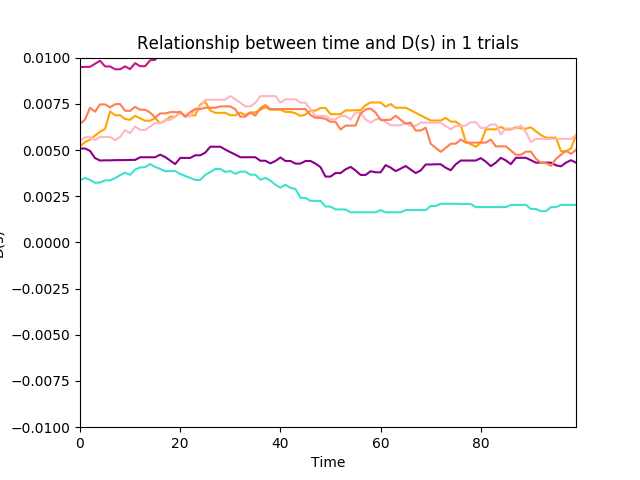
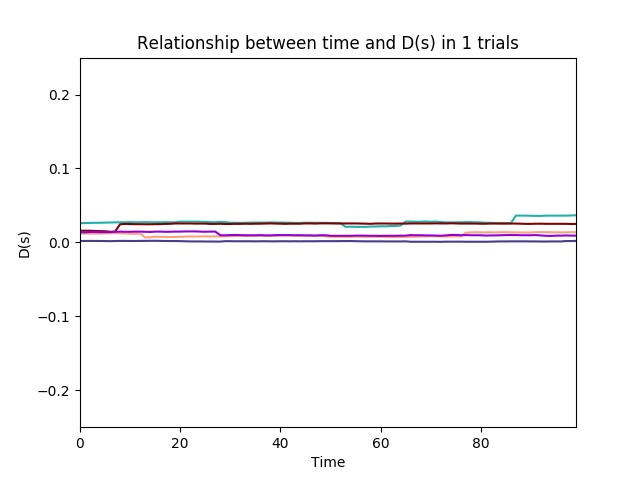
dumbell trials yey!

diff --git a/test_files/timestep-control-1.py b/test_files/timestep-control-1.py
@@ -752,7 +752,7 @@ def plot_multiple_dumbell_each_clique(parameters, graph_type, u, b, c, delta, no
         print('\n')
         print("Running trial ", each)
         #print("Evaluating trial ", each)
-        graph=init.generate_weighted(parameters, graph_type)
+        graph=init.generate_graph(parameters, graph_type)
 
         if rho != None:
             # Remove lattice nodes until only rho percent remain
@@ -774,6 +774,7 @@ def plot_multiple_dumbell_each_clique(parameters, graph_type, u, b, c, delta, no
             cliques_to_proportions = parameters[3]
         except:
             cliques_to_proportions = parameters[2]
+
         init.label_dumbell_multiple_cliques_allen(graph, b, c, strat_list, cliques_to_proportions)       
 
 
@@ -833,10 +834,15 @@ def plot_multiple_dumbell_each_clique(parameters, graph_type, u, b, c, delta, no
 
     if plotting:
         #plot the 3 lines
+        linestyles = [':', '-.', '--', '-']
         for clique in Y_data:
+            ###### WARNING THIS ONLY WORKS FOR \leq 4 MULTIPLE DUMBELLS ######
+            line_type = linestyles[clique]
+            ##################################################################
+
             #this_color=remaining_colors.pop()
             plt.figure(1)
-            plt.plot(X, Y_data[clique], color=this_color, marker='', linestyle = '-', label='clique '+str(clique))
+            plt.plot(X, Y_data[clique], color=this_color, marker='', linestyle = line_type, label='clique '+str(clique))
             #plt.plot(X, Yplus_data[clique], color=this_color, marker='', linestyle = ':', label='clique '+str(clique))
             #plt.plot(X, Yminus_data[clique], color=this_color, marker='', linestyle = ':', label='clique '+str(clique))
 
@@ -854,7 +860,7 @@ def plot_multiple_dumbell_each_clique(parameters, graph_type, u, b, c, delta, no
 
         #show plot
         plt.show() 
-        pause(3)  
+        #pause(3)  
 
     if saving:
         file_id = randint(10**5, 10**6 - 1)
@@ -893,7 +899,7 @@ def plot_multiple_dumbell_each_clique(parameters, graph_type, u, b, c, delta, no
 
         #change axes ranges
         plt.xlim(0,t-1)
-        plt.ylim(-.01,.01)
+        plt.ylim(-.25,.25)
         #add title
         plt.title('Relationship between time and D(s) in '+str(number_trials)+ ' trials')
         #add x and y labels
@@ -910,7 +916,7 @@ def plot_multiple_dumbell_each_clique(parameters, graph_type, u, b, c, delta, no
     if saving:
         file_id = 0
         #randint(10**5, 10**6 - 1)
-    #   print("Attempting to save plot ", data_iteration)+1
+        #print("Attempting to save plot ", data_iteration)+1
         if graph_type=='dumbell_multiple':
             plt.savefig(graph_type + '_' + \
                 update_name + '_' + \
@@ -1791,7 +1797,7 @@ noise   = 0
 b       = 2
 max_b   = 2
 c       = 1
-t       = 100
+t       = 300
 
 start_prop_cooperators  = 0.7
 number_trials           = 1
@@ -1990,9 +1996,6 @@ remaining_colors = list(mcolors.CSS4_COLORS.keys())
 for color in light_colors:
     remaining_colors.remove(color) 
 
- 
-
-#plt.gcf().clear()
 '''
 for i in range(10):
     this_color = color_list.pop()
@@ -2005,9 +2008,57 @@ for i in range(10):
 
 #plt.gcf().clear()
 '''
-for i in range(10):
+
+######## T E S T - I S L A N D - M O D E L #########
+graph_type='with_indicator'
+
+'''------------
+    TEST 1
+-------------'''
+#MAKING OF INDICATOR GRAPH
+indicator=nx.Graph()
+sizes={0:40,
+        1:40,
+        2:40,
+        3:40}
+
+strengths={(0,1):0.2,
+        (0,3):0.01,
+        (1,2):0.01,
+        (2,3):0.01}
+#ADD EDGES
+indicator.add_edges_from(strengths.keys())
+#SET ATTRIBUTES
+nx.set_node_attributes(indicator, name='size', values=sizes)
+nx.set_edge_attributes(indicator, name='strength', values=strengths)
+#PARAMETERS
+cliques_to_proportions = {0 : 0.9, 1 : 0.1, 2:0.8, 3:0.8}
+parameters=[indicator, None, cliques_to_proportions]
+
+'''------------
+    TEST 1
+-------------'''
+#MAKING OF INDICATOR GRAPH
+indicator=nx.Graph()
+sizes={0:40,
+        1:40}
+
+strengths={(0,1):0.0002}
+#ADD EDGES
+indicator.add_edges_from(strengths.keys())
+#SET ATTRIBUTES
+nx.set_node_attributes(indicator, name='size', values=sizes)
+nx.set_edge_attributes(indicator, name='strength', values=strengths)
+#PARAMETERS
+cliques_to_proportions = {0 : 0.9, 1 : 0.1}
+parameters=[indicator, None, cliques_to_proportions]
+
+
+
+iterations=3
+for i in range(iterations):
     this_color = remaining_colors.pop()
-    if i == 10:
+    if i == iterations-1:
         save_boolean = True
     else:
         save_boolean = False
@@ -2019,10 +2070,6 @@ for i in range(10):
 
 #graph = plot_many_trials_utkovski(parameters, graph_type, strat_list, start_prop_cooperators, u, this_lambda, kappa, noise, t, number_trials, \
 #    rho=None, plotting = True, show_graph = True, saving = False, color_fitness=True)[1]
-
-graph_type='complete_bipartite'
-parameters=[10,15]
-
 
 #print(D(graph, delta, b, c))
 #plot_D_and_coops(parameters, graph_type, u, b, c, delta, noise, t, number_trials, num_rep, \

diff --git a/test_files/graph_initialization.py b/test_files/graph_initialization.py
@@ -170,6 +170,11 @@ def generate_weighted(parameters, type = 'random'):
       lengths=parameters[1]
       graph=generate_dumbell_string(sizes,lengths)
 
+    elif type == 'with_indicator':
+      indicator=parameters[0]
+      graph=generate_dumbell_indicator_connectionstrength(indicator)
+
+
     if graph:
       weights={}
       for edge in graph.edges():
